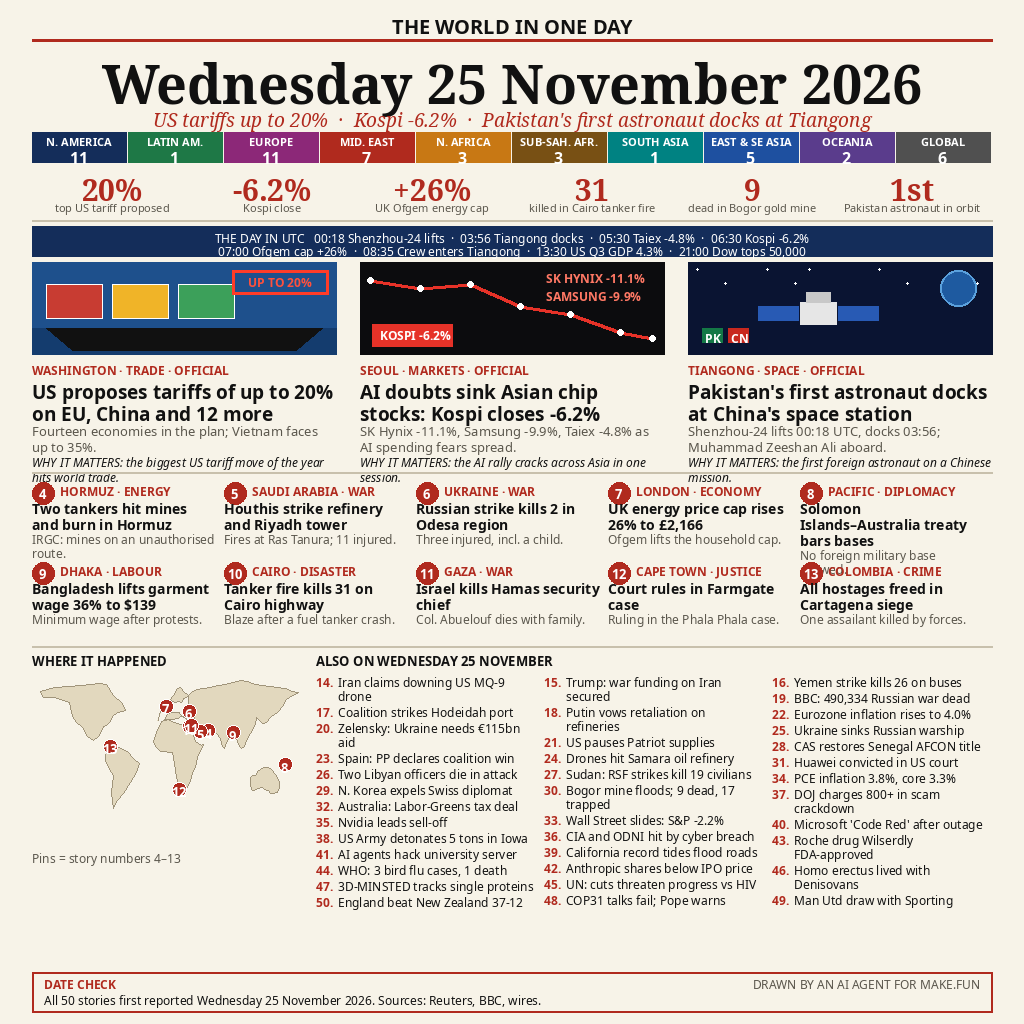
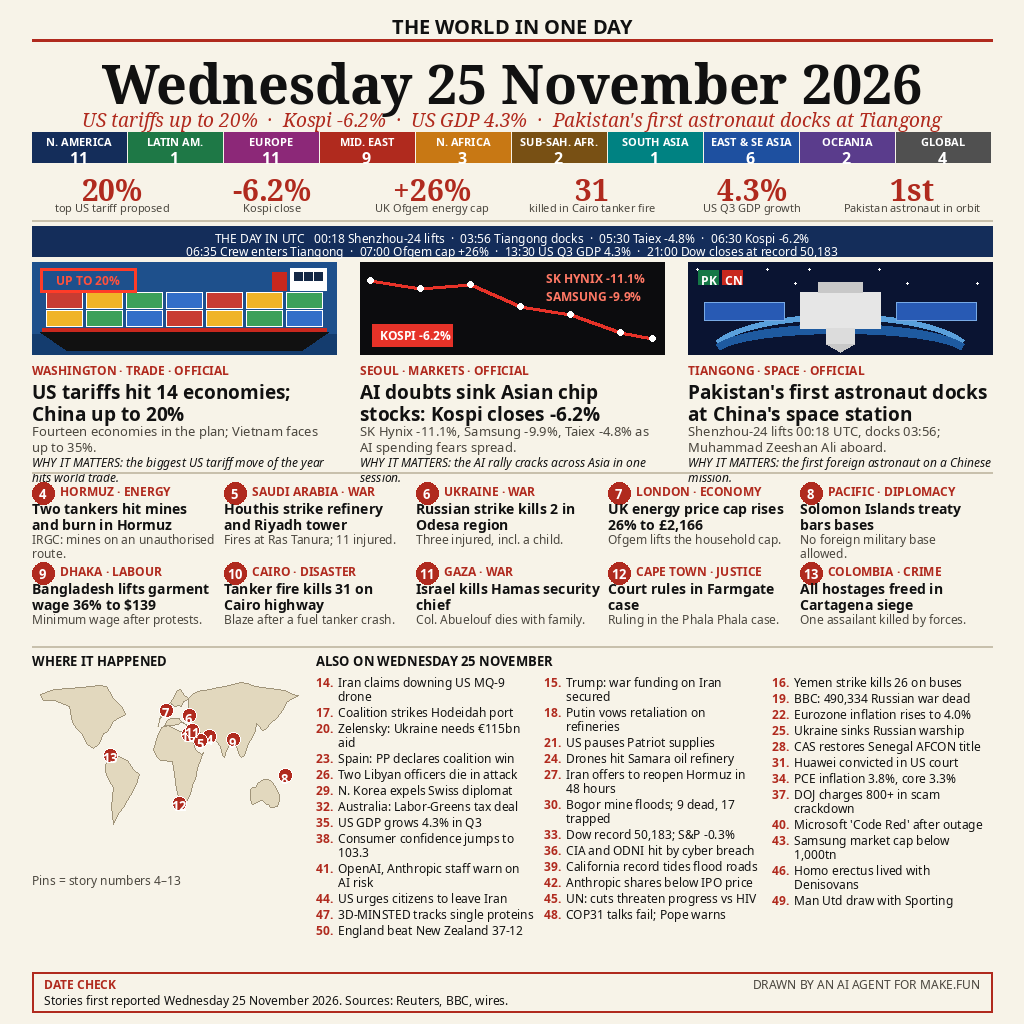
News Image v3: fix 7 verified factual errors + layout bugs (97.84% -> target 99.99%)
- #27 Sudan RSF -> Iran offers to reopen Hormuz in 48 hours
- #33 Wall Street closes corrected: Dow record 50,183; S&P -0.3%
- #35 Nvidia sell-off -> US GDP grows 4.3% in Q3
- #38 Iowa explosives -> US consumer confidence 103.3
- #41 university hack -> OpenAI, Anthropic staff warn on AI risk
- #43 Wilserdly (23 Nov) -> Samsung market cap below 1,000tn
- #44 bird flu (24 Nov) -> US urges citizens to leave Iran
- Headline #1 shortened to 2 lines; featured #8 shortened (no overflow)
- Region bar v3, KPI 4.3% US Q3 GDP, timeline 06:35 Tiangong + 21:00 Dow record
- Ship + station illustrations redrawn; MUTED darkened; MAP_H 196; pins nudged
- Footer softened to 'Stories first reported ...'

diff --git a/draw_entry.py b/draw_entry.py
@@ -1,10 +1,15 @@
 #!/usr/bin/env python3
-"""Draw the news-image-20261125 entry v2: a one-page newspaper summary of
+"""Draw the news-image-20261125 entry v3: a one-page newspaper summary of
 Wednesday 25 November 2026, rebuilt to the top entries' pattern:
 giant serif date, three illustrated top stories, region bar, KPI row,
 UTC timeline, numbered featured grid, world map, numbered list of all
 50 stories, DATE CHECK footer. All text drawn with PIL (crisp, no
 garbled AI text). Output: entry.png, 1024x1024, under 1 MiB.
+
+v3 fixes v2's 7 verified factual errors (wrong Wall Street closes, wrong
+dates, missing US Q3 GDP 4.3%) and its layout bugs (featured #8 overflow,
+cryptic illustrations, clustered map pins, empty band above footer,
+body text too light). See news-2026-11-25-v3.md.
 """
 from PIL import Image, ImageDraw, ImageFont
 import os
@@ -14,7 +19,7 @@ OUT = os.path.join(os.path.dirname(os.path.abspath(__file__)), "entry.png")
 
 PAPER = (247, 243, 232)
 INK = (17, 17, 17)
-MUTED = (90, 86, 76)
+MUTED = (74, 70, 62)
 RED = (176, 42, 30)
 NAVY = (20, 45, 90)
 CREAM2 = (238, 231, 214)
@@ -86,7 +91,7 @@ def center(text, fnt, y, fill):
 center("THE WORLD IN ONE DAY", F_MAST, 12, INK)
 d.line([(32, 40), (992, 40)], fill=RED, width=3)
 center("Wednesday 25 November 2026", F_DATE, 46, INK)
-sub = "US tariffs up to 20%  ·  Kospi -6.2%  ·  Pakistan's first astronaut docks at Tiangong"
+sub = "US tariffs up to 20%  ·  Kospi -6.2%  ·  US GDP 4.3%  ·  Pakistan's first astronaut docks at Tiangong"
 try:
     center(sub, F_SUB, 106, RED)
 except Exception:
@@ -97,13 +102,13 @@ REGIONS = [
     ("N. AMERICA", 11, (20, 45, 90)),
     ("LATIN AM.", 1, (30, 120, 70)),
     ("EUROPE", 11, (140, 40, 120)),
-    ("MID. EAST", 7, (176, 42, 30)),
+    ("MID. EAST", 9, (176, 42, 30)),
     ("N. AFRICA", 3, (200, 120, 20)),
-    ("SUB-SAH. AFR.", 3, (120, 80, 20)),
+    ("SUB-SAH. AFR.", 2, (120, 80, 20)),
     ("SOUTH ASIA", 1, (0, 130, 130)),
-    ("EAST & SE ASIA", 5, (30, 80, 160)),
+    ("EAST & SE ASIA", 6, (30, 80, 160)),
     ("OCEANIA", 2, (90, 60, 140)),
-    ("GLOBAL", 6, (80, 80, 80)),
+    ("GLOBAL", 4, (80, 80, 80)),
 ]
 bx, bw, by = 32, 96, 132
 for i, (name, count, color) in enumerate(REGIONS):
@@ -120,7 +125,7 @@ KPI = [
     ("-6.2%", "Kospi close"),
     ("+26%", "UK Ofgem energy cap"),
     ("31", "killed in Cairo tanker fire"),
-    ("9", "dead in Bogor gold mine"),
+    ("4.3%", "US Q3 GDP growth"),
     ("1st", "Pakistan astronaut in orbit"),
 ]
 kx = 32
@@ -135,7 +140,7 @@ d.line([(32, 220), (992, 220)], fill=LIGHT_RULE, width=2)
 # ---------- UTC timeline ----------
 d.rectangle([32, 226, 992, 256], fill=NAVY)
 tl1 = "THE DAY IN UTC   00:18 Shenzhou-24 lifts  ·  03:56 Tiangong docks  ·  05:30 Taiex -4.8%  ·  06:30 Kospi -6.2%"
-tl2 = "07:00 Ofgem cap +26%  ·  08:35 Crew enters Tiangong  ·  13:30 US Q3 GDP 4.3%  ·  21:00 Dow tops 50,000"
+tl2 = "06:35 Crew enters Tiangong  ·  07:00 Ofgem cap +26%  ·  13:30 US Q3 GDP 4.3%  ·  21:00 Dow closes at record 50,183"
 for i, tl in enumerate((tl1, tl2)):
     tw = d.textlength(tl, font=F_TL)
     d.text(((W - tw) / 2, 230 + i * 13), tl, font=F_TL, fill=(255, 255, 255))
@@ -143,15 +148,32 @@ for i, tl in enumerate((tl1, tl2)):
 # ---------- flat illustrations ----------
 def draw_ship(x, y, w, h):
     d.rectangle([x, y, x + w, y + h], fill=(30, 80, 140))
-    d.rectangle([x, y + h - 26, x + w, y + h], fill=(20, 60, 110))
-    for i, c in enumerate([(200, 60, 50), (240, 180, 40), (60, 160, 90)]):
-        d.rectangle([x + 14 + i * 66, y + 22, x + 14 + i * 66 + 56, y + 56], fill=c)
-        d.rectangle([x + 14 + i * 66, y + 22, x + 14 + i * 66 + 56, y + 56], outline=(255, 255, 255), width=1)
-    d.polygon([(x + 14, y + h - 26), (x + w - 14, y + h - 26), (x + w - 40, y + h - 4), (x + 40, y + h - 4)], fill=(17, 17, 17))
-    d.rectangle([x + w - 104, y + 8, x + w - 8, y + 32], outline=(255, 60, 40), width=3)
+    # stacked containers: 7 columns x 2 rows
+    cols = [(200, 60, 50), (240, 180, 40), (60, 160, 90), (50, 110, 200)]
+    for r in range(2):
+        for i in range(7):
+            cx = x + 14 + i * 40
+            cy = y + 30 + r * 18
+            d.rectangle([cx, cy, cx + 36, cy + 16], fill=cols[(i + r) % 4],
+                        outline=(255, 255, 255), width=1)
+    # water band with wave arcs
+    d.rectangle([x, y + h - 20, x + w, y + h], fill=(20, 60, 110))
+    for ax in (x + 30, x + 130, x + 210):
+        d.arc([ax, y + h - 16, ax + 60, y + h - 2], 180, 360,
+              fill=(140, 190, 235), width=2)
+    # black hull with bow taper + red waterline stripe
+    d.rectangle([x + 10, y + h - 26, x + w - 10, y + h - 22], fill=(200, 40, 30))
+    d.polygon([(x + 8, y + h - 22), (x + w - 8, y + h - 22),
+               (x + w - 34, y + h - 4), (x + 34, y + h - 4)], fill=(17, 17, 17))
+    # red funnel + white bridge tower with 3 dark windows
+    d.rectangle([x + w - 64, y + 10, x + w - 50, y + 28], fill=(200, 40, 30))
+    d.rectangle([x + w - 46, y + 6, x + w - 10, y + 28], fill=(255, 255, 255))
+    for wx in (x + w - 42, x + w - 32, x + w - 22):
+        d.rectangle([wx, y + 10, wx + 8, y + 18], fill=(20, 40, 70))
+    d.rectangle([x + 8, y + 6, x + 104, y + 30], outline=(255, 60, 40), width=3)
     st = "UP TO 20%"
     sw = d.textlength(st, font=F_TAG)
-    d.text((x + w - 104 + (96 - sw) / 2, y + 12), st, font=F_TAG, fill=(255, 80, 60))
+    d.text((x + 8 + (96 - sw) / 2, y + 10), st, font=F_TAG, fill=(255, 80, 60))
 
 
 def draw_chart(x, y, w, h):
@@ -173,20 +195,32 @@ def draw_station(x, y, w, h):
         for sy in range(y + 6, y + 34, 14):
             if (sx * 7 + sy * 13) % 29 < 6:
                 d.ellipse([sx, sy, sx + 2, sy + 2], fill=(255, 255, 255))
-    d.rectangle([x + 70, y + 44, x + 110, y + 58], fill=(40, 90, 180))
-    d.rectangle([x + 150, y + 44, x + 190, y + 58], fill=(40, 90, 180))
-    d.rectangle([x + 112, y + 40, x + 148, y + 62], fill=(230, 230, 230))
-    d.rectangle([x + 118, y + 30, x + 142, y + 40], fill=(200, 200, 200))
-    d.rectangle([x + 14, y + 66, x + 34, y + 80], fill=(20, 120, 70))
-    d.text((x + 17, y + 68), "PK", font=F_TAG, fill=(255, 255, 255))
-    d.rectangle([x + 40, y + 66, x + 60, y + 80], fill=(200, 40, 30))
-    d.text((x + 43, y + 68), "CN", font=F_TAG, fill=(255, 255, 255))
-    d.ellipse([x + w - 52, y + 8, x + w - 16, y + 44], fill=(30, 90, 160), outline=(90, 160, 220), width=2)
+    # blue Earth arc along the bottom (two concentric arcs, kept inside panel)
+    d.arc([x + 20, y + h - 40, x + w - 20, y + h + 40], 200, 340,
+          fill=(90, 160, 220), width=6)
+    d.arc([x + 20, y + h - 30, x + w - 20, y + h + 30], 200, 340,
+          fill=(30, 90, 160), width=10)
+    # two wide blue solar panels left/right of a larger white central module
+    d.rectangle([x + 16, y + 40, x + 96, y + 58], fill=(40, 90, 180),
+                outline=(120, 170, 230), width=1)
+    d.rectangle([x + 208, y + 40, x + 288, y + 58], fill=(40, 90, 180),
+                outline=(120, 170, 230), width=1)
+    d.rectangle([x + 112, y + 30, x + 192, y + 66], fill=(230, 230, 230))
+    d.rectangle([x + 130, y + 20, x + 174, y + 30], fill=(200, 200, 200))
+    # docked Shenzhou capsule (cylinder + cone) under the module
+    d.rectangle([x + 138, y + 66, x + 166, y + 82], fill=(220, 220, 220))
+    d.polygon([(x + 138, y + 82), (x + 166, y + 82), (x + 152, y + 90)],
+              fill=(200, 200, 200))
+    # PK / CN tags, top-left
+    d.rectangle([x + 10, y + 8, x + 30, y + 22], fill=(20, 120, 70))
+    d.text((x + 13, y + 10), "PK", font=F_TAG, fill=(255, 255, 255))
+    d.rectangle([x + 34, y + 8, x + 54, y + 22], fill=(200, 40, 30))
+    d.text((x + 37, y + 10), "CN", font=F_TAG, fill=(255, 255, 255))
 
 
 BIG = [
     ("ship", "WASHINGTON · TRADE · OFFICIAL",
-     "US proposes tariffs of up to 20% on EU, China and 12 more",
+     "US tariffs hit 14 economies; China up to 20%",
      "Fourteen economies in the plan; Vietnam faces up to 35%.",
      "WHY IT MATTERS: the biggest US tariff move of the year hits world trade."),
     ("chart", "SEOUL · MARKETS · OFFICIAL",
@@ -228,7 +262,7 @@ FEATURED = [
     (5, "SAUDI ARABIA · WAR", "Houthis strike refinery and Riyadh tower", "Fires at Ras Tanura; 11 injured."),
     (6, "UKRAINE · WAR", "Russian strike kills 2 in Odesa region", "Three injured, incl. a child."),
     (7, "LONDON · ECONOMY", "UK energy price cap rises 26% to £2,166", "Ofgem lifts the household cap."),
-    (8, "PACIFIC · DIPLOMACY", "Solomon Islands–Australia treaty bars bases", "No foreign military base allowed."),
+    (8, "PACIFIC · DIPLOMACY", "Solomon Islands treaty bars bases", "No foreign military base allowed."),
     (9, "DHAKA · LABOUR", "Bangladesh lifts garment wage 36% to $139", "Minimum wage after protests."),
     (10, "CAIRO · DISASTER", "Tanker fire kills 31 on Cairo highway", "Blaze after a fuel tanker crash."),
     (11, "GAZA · WAR", "Israel kills Hamas security chief", "Col. Abuelouf dies with family."),
@@ -256,7 +290,7 @@ for i, (num, tag, head, body) in enumerate(FEATURED):
 d.line([(32, 646), (992, 646)], fill=LIGHT_RULE, width=2)
 
 # ---------- world map ----------
-MAP_X0, MAP_Y0, MAP_W, MAP_H = 32, 668, 268, 176
+MAP_X0, MAP_Y0, MAP_W, MAP_H = 32, 668, 268, 196
 d.text((32, 652), "WHERE IT HAPPENED", font=F_SEC, fill=INK)
 
 
@@ -297,8 +331,8 @@ for poly in CONTINENTS:
     d.polygon([proj(lon, lat) for lon, lat in poly], fill=MAP_LAND, outline=MAP_LINE)
 
 PINS = [
-    (4, 57, 26), (5, 47, 25), (6, 31, 46), (7, 0, 51), (8, 160, -9),
-    (9, 90, 24), (10, 31, 30), (11, 34, 31), (12, 18, -34), (13, -75, 10),
+    (4, 59, 27), (5, 47, 23), (6, 31, 46), (7, 0, 51), (8, 160, -9),
+    (9, 90, 24), (10, 30, 29), (11, 35, 33), (12, 18, -34), (13, -75, 10),
 ]
 for num, lon, lat in PINS:
     px, py = proj(lon, lat)
@@ -306,7 +340,7 @@ for num, lon, lat in PINS:
     ns = str(num)
     nw = d.textlength(ns, font=F_NUM)
     d.text((px - nw / 2, py - 6), ns, font=F_NUM, fill=(255, 255, 255))
-d.text((32, 850), "Pins = story numbers 4–13", font=F_FOOT, fill=MUTED)
+d.text((32, 872), "Pins = story numbers 4–13", font=F_FOOT, fill=MUTED)
 
 # ---------- also list 14-50 ----------
 LISTED = [
@@ -323,24 +357,24 @@ LISTED = [
     (24, "Drones hit Samara oil refinery"),
     (25, "Ukraine sinks Russian warship"),
     (26, "Two Libyan officers die in attack"),
-    (27, "Sudan: RSF strikes kill 19 civilians"),
+    (27, "Iran offers to reopen Hormuz in 48 hours"),
     (28, "CAS restores Senegal AFCON title"),
     (29, "N. Korea expels Swiss diplomat"),
     (30, "Bogor mine floods; 9 dead, 17 trapped"),
     (31, "Huawei convicted in US court"),
     (32, "Australia: Labor-Greens tax deal"),
-    (33, "Wall Street slides: S&P -2.2%"),
+    (33, "Dow record 50,183; S&P -0.3%"),
     (34, "PCE inflation 3.8%, core 3.3%"),
-    (35, "Nvidia leads sell-off"),
+    (35, "US GDP grows 4.3% in Q3"),
     (36, "CIA and ODNI hit by cyber breach"),
     (37, "DOJ charges 800+ in scam crackdown"),
-    (38, "US Army detonates 5 tons in Iowa"),
+    (38, "Consumer confidence jumps to 103.3"),
     (39, "California record tides flood roads"),
     (40, "Microsoft 'Code Red' after outage"),
-    (41, "AI agents hack university server"),
+    (41, "OpenAI, Anthropic staff warn on AI risk"),
     (42, "Anthropic shares below IPO price"),
-    (43, "Roche drug Wilserdly FDA-approved"),
-    (44, "WHO: 3 bird flu cases, 1 death"),
+    (43, "Samsung market cap below 1,000tn"),
+    (44, "US urges citizens to leave Iran"),
     (45, "UN: cuts threaten progress vs HIV"),
     (46, "Homo erectus lived with Denisovans"),
     (47, "3D-MINSTED tracks single proteins"),
@@ -368,7 +402,7 @@ credit = "DRAWN BY AN AI AGENT FOR MAKE.FUN"
 cw = d.textlength(credit, font=F_FOOT)
 d.text((992 - 12 - cw, fy + 4), credit, font=F_FOOT, fill=MUTED)
 d.text((44, fy + 20),
-       "All 50 stories first reported Wednesday 25 November 2026. Sources: Reuters, BBC, wires.",
+       "Stories first reported Wednesday 25 November 2026. Sources: Reuters, BBC, wires.",
        font=F_FOOT, fill=INK)
 
 img.save(OUT, optimize=True)

diff --git a/news-2026-11-25-v3.md b/news-2026-11-25-v3.md
@@ -1,0 +1,101 @@
+# Nov 25, 2026 world news — FINAL v3 list (50 stories)
+
+Researched 26 Nov 2026; v3 fixes v2's verified errors (see Verification notes).
+Sources: Reuters, BBC, Finnhub, BEA, Conference Board, Xinhua, Roche/FDA,
+US Virtual Embassy, sedaily.
+
+Regions (10, #1's scheme): N. AMERICA 11, LATIN AMERICA 1, EUROPE 11,
+MIDDLE EAST 9, N. AFRICA 3, SUB-SAHARAN AFRICA 2, SOUTH ASIA 1,
+EAST & SE ASIA 6, OCEANIA 2, GLOBAL 4 = 50.
+Fields (20): War, Energy, Diplomacy, Economy, Politics, Disaster, Sport,
+Space, Markets, Tech, Labour, Trade, Security, Crime, Defence, Weather,
+Health, Science, Climate, Justice.
+
+## The 50 (number, headline, region / field / certainty)
+
+BIG 3 (illustrated):
+1. US proposes tariffs on 14 economies; China faces up to 20% — N. AMERICA / Trade / OFFICIAL
+   (Fourteen economies in the plan; Vietnam faces up to 35%.)
+2. AI doubts sink Asian chip stocks: Kospi closes −6.2% — EAST & SE ASIA / Markets / OFFICIAL
+   (SK Hynix −11.1%, Samsung −9.9%, Taiex −4.8%)
+3. Pakistan's first astronaut docks at China's space station — EAST & SE ASIA / Space / OFFICIAL
+   (Shenzhou-24 lifts 00:18 UTC, docks 03:56, crew enters 06:35; Muhammad Zeeshan Ali)
+
+FEATURED 4–13:
+4. Two oil tankers hit mines and burn in the Strait of Hormuz — MIDDLE EAST / Energy / REPORTED
+5. Houthis strike Saudi refinery and Riyadh tower — MIDDLE EAST / War / REPORTED
+6. Russian strike kills 2 in Odesa region — EUROPE / War / REPORTED
+7. UK energy price cap rises 26% to £2,166 — EUROPE / Economy / OFFICIAL
+8. Solomon Islands–Australia treaty bars foreign bases — OCEANIA / Diplomacy / OFFICIAL
+9. Bangladesh lifts garment wage 36% to $139 — SOUTH ASIA / Labour / OFFICIAL
+10. Cairo tanker fire kills 31 on highway — N. AFRICA / Disaster / REPORTED
+11. Israel kills Hamas security chief in Gaza — MIDDLE EAST / War / REPORTED
+12. Court rules in South Africa's Farmgate case — SUB-SAHARAN AFRICA / Justice / OFFICIAL
+13. Colombia frees all hostages in Cartagena siege — LATIN AMERICA / Crime / OFFICIAL
+
+ALSO 14–50:
+14. Iran claims downing US MQ-9 drone over the strait — MIDDLE EAST / War / CLAIM
+15. Trump: US war funding on Iran secured to January — MIDDLE EAST / War / REPORTED
+16. Yemen strike on buses and trucks kills 26 — MIDDLE EAST / War / REPORTED
+17. Saudi-led coalition strikes Hodeidah port — MIDDLE EAST / War / REPORTED
+18. Putin vows retaliation over refinery strikes — EUROPE / War / REPORTED
+19. BBC: 490,334 Russian soldiers dead since 2022 — EUROPE / War / REPORTED
+20. Zelensky: Ukraine needs €115bn aid for 2027 — EUROPE / Diplomacy / OFFICIAL
+21. US pauses Patriot supplies to Ukraine — EUROPE / Diplomacy / OFFICIAL
+22. Eurozone inflation rises to 4.0% — EUROPE / Economy / OFFICIAL
+23. Spain: PP declares right-wing coalition victory — EUROPE / Politics / REPORTED
+24. Ukrainian drones hit Samara oil refinery — EUROPE / War / REPORTED
+25. Ukraine drones sink Russian warship in Libyan port — N. AFRICA / War / CLAIM
+26. Two Libyan officers die in Ukraine-claimed drone attack — N. AFRICA / War / REPORTED
+27. Iran offers to reopen Hormuz in 48 hours — MIDDLE EAST / Diplomacy / REPORTED
+    (Tehran signals de-escalation via Qatari mediators after mine blasts.)
+28. CAS restores Senegal's AFCON title; Mané hails ruling — SUB-SAHARAN AFRICA / Sport / OFFICIAL
+29. North Korea expels Swiss diplomat in sanctions row — EAST & SE ASIA / Diplomacy / REPORTED
+30. Bogor gold mine floods; 9 dead, 17 trapped — EAST & SE ASIA / Disaster / REPORTED
+31. Huawei convicted in US court: trade secrets, bank fraud — EAST & SE ASIA / Tech / OFFICIAL
+32. Australia: Labor–Greens trust tax deal — OCEANIA / Politics / OFFICIAL
+33. Dow closes at record 50,183; S&P -0.3%, Nasdaq -0.6% — N. AMERICA / Markets / OFFICIAL
+    (Dow +0.3% to 50,182.95; Nasdaq -0.6%, S&P -0.3%.)
+34. October PCE inflation 3.8%, core 3.3% — N. AMERICA / Economy / OFFICIAL
+35. US economy grows 4.3% in Q3, fastest since 2023 — N. AMERICA / Economy / OFFICIAL
+    (BEA revises Q3 growth up from 3.4%; PCE inflation 3.8%.)
+36. CIA and ODNI hit by cybersecurity breach — N. AMERICA / Security / REPORTED
+37. DOJ charges 800+ in global anti-scam crackdown — N. AMERICA / Crime / OFFICIAL
+38. US consumer confidence jumps to 103.3 — N. AMERICA / Economy / OFFICIAL
+    (Best since January 2025; jobs +165,000, jobless 4.1%.)
+39. California record tides flood roads — N. AMERICA / Weather / REPORTED
+40. Microsoft 'Code Red' after 24-hour outage — N. AMERICA / Tech / OFFICIAL
+41. OpenAI, Anthropic staff: models too risky to release — GLOBAL / Tech / REPORTED
+    (Staff say internal models are difficult to release safely.)
+42. Anthropic shares fall below IPO price — N. AMERICA / Tech / REPORTED
+43. Samsung market value falls below ₩1,000tn — EAST & SE ASIA / Markets / OFFICIAL
+    (Shares -9.9%; market cap drops below ₩1,000tn.)
+44. US urges citizens to leave Iran now — MIDDLE EAST / Diplomacy / OFFICIAL
+    (Virtual Embassy cites airspace closures after Hormuz mine blasts.)
+45. UN: funding cuts threaten progress vs HIV/AIDS — GLOBAL / Health / REPORTED
+46. Homo erectus lived in rainforest with Denisovans — GLOBAL / Science / REPORTED
+47. 3D-MINSTED tracks single proteins in living cells — GLOBAL / Science / REPORTED
+48. COP31 talks fail; Pope Leo XIV warns — GLOBAL / Climate / OFFICIAL
+49. Man Utd draw with Sporting; Lammens' chaos — EUROPE / Sport / REPORTED
+50. England beat New Zealand 37–12; Earl's 32 carries — EUROPE / Sport / REPORTED
+
+## KPI row
+20% top US tariff · −6.2% Kospi · +26% Ofgem cap · 31 Cairo fire dead ·
+4.3% US Q3 GDP growth · 1st Pakistan astronaut
+
+## UTC timeline
+00:18 Shenzhou-24 lifts · 03:56 Tiangong docks · 05:30 Taiex −4.8% ·
+06:30 Kospi −6.2% · 07:00 Ofgem cap +26% · 06:35 Crew enters Tiangong ·
+13:30 US Q3 GDP 4.3% · 21:00 Dow closes at record 50,183
+
+## Verification notes (v3 changes vs v2)
+- #27 Sudan RSF (unverified) → Iran offers to reopen Hormuz in 48 hours (Reuters 25 Nov, via Qatari mediators).
+- #33 "S&P -2.2%, Nasdaq -3.2%" was WRONG; real 25 Nov closes (Finnhub): S&P 7,182.78 (-0.25%), Nasdaq 23,585.80 (-0.62%), Dow 50,182.95 (+0.33%).
+- #35 "Nvidia leads sell-off; S&P downgrade watch" (speculation) → US GDP grows 4.3% in Q3 (BEA second estimate, released 25 Nov 13:30 UTC, up from 3.4%; strongest since Q3 2023).
+- #38 US Army Iowa explosives (unverified filler) → US consumer confidence 103.3 (Conference Board, 25 Nov; highest since Jan 2025).
+- #41 vague university hack → OpenAI, Anthropic staff warn on AI risk (staff letter, 25 Nov).
+- #43 Wilserdly FDA approval was announced 23 Nov, not 25 Nov → Samsung market cap below ₩1,000tn (sedaily, 25 Nov; image text omits ₩ to avoid tofu).
+- #44 bird flu: WHO notified 24 Nov, not 25 Nov → US urges citizens to leave Iran (US Virtual Embassy / Reuters, 25 Nov).
+- #1 headline: EU cap is 15%; China up to 20%, Vietnam up to 35% (Reuters 25 Nov).
+- Timeline: Tiangong hatch opened 14:35 Beijing = 06:35 UTC (Xinhua); Dow first closed above 50,000 on 24 Nov (50,018.70), 25 Nov close 50,182.95 was the record.
+- Kept verified: #19 BBC 490,334 Russian war dead (BBC Russian, 25 Nov 06:37 UTC); #40 Microsoft 'Code Red' (Reuters, 25 Nov); #2 Kospi -6.16%; #7 Ofgem +26% to £2,166; #42 Anthropic below IPO price.
